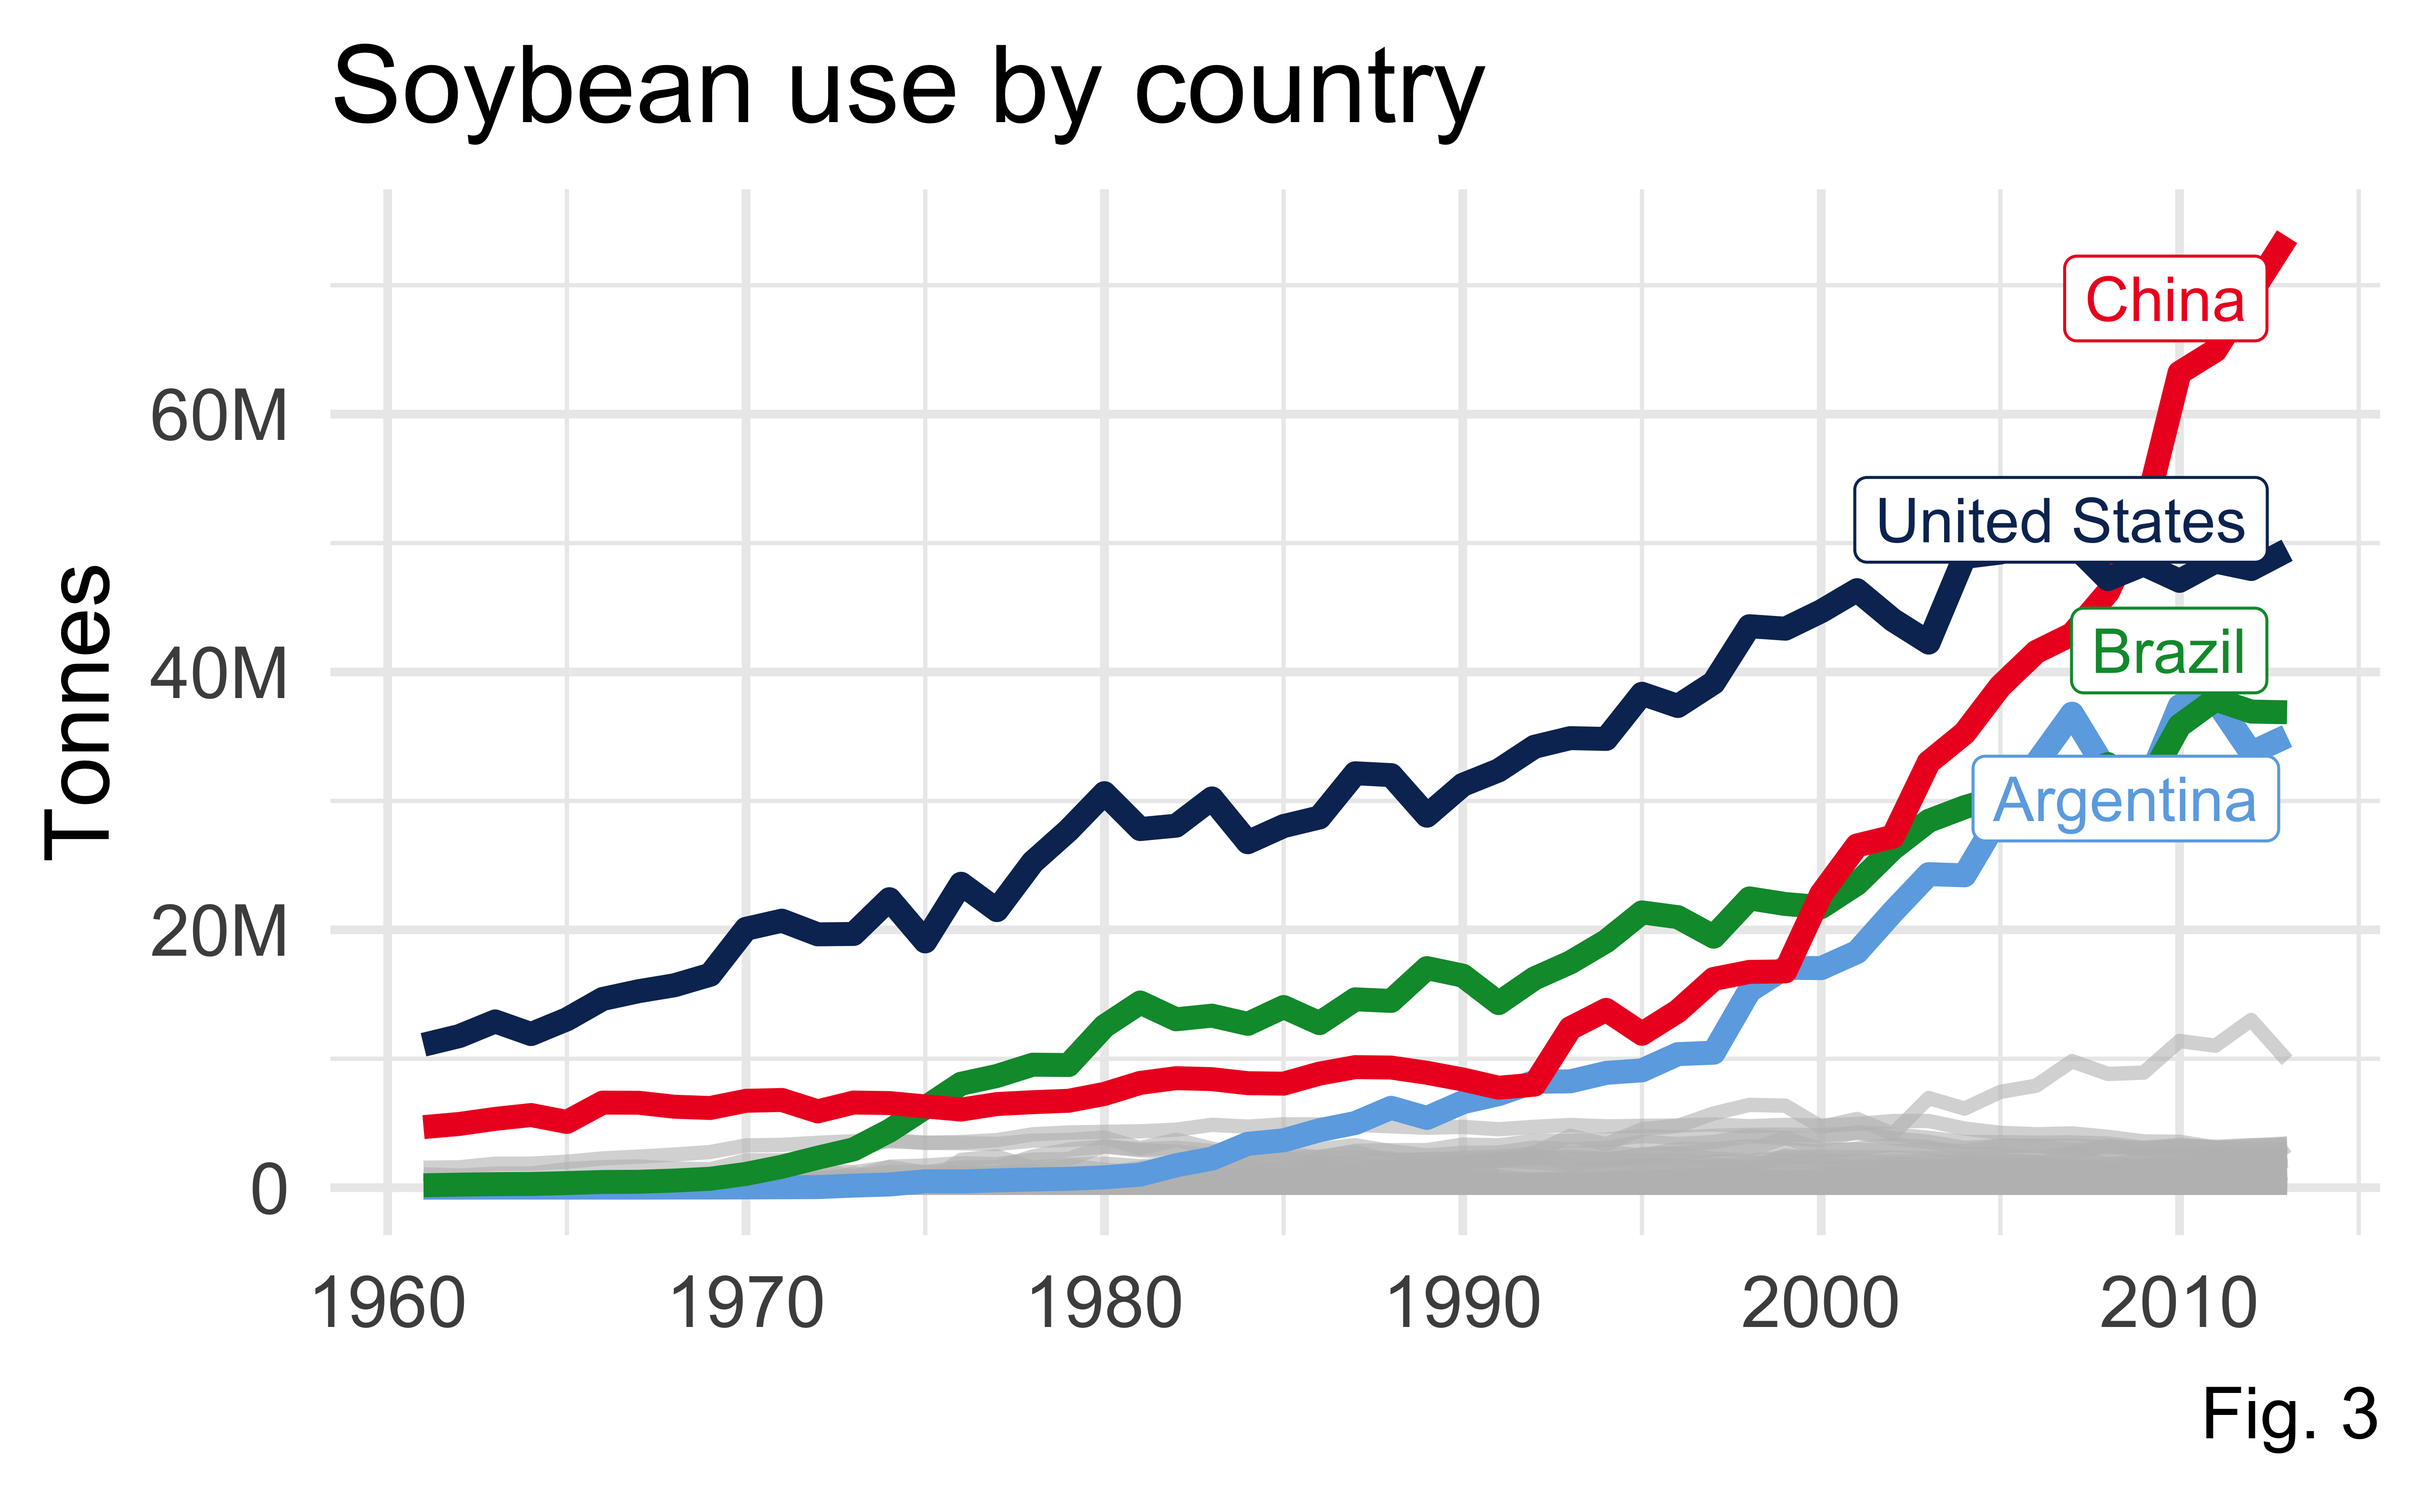
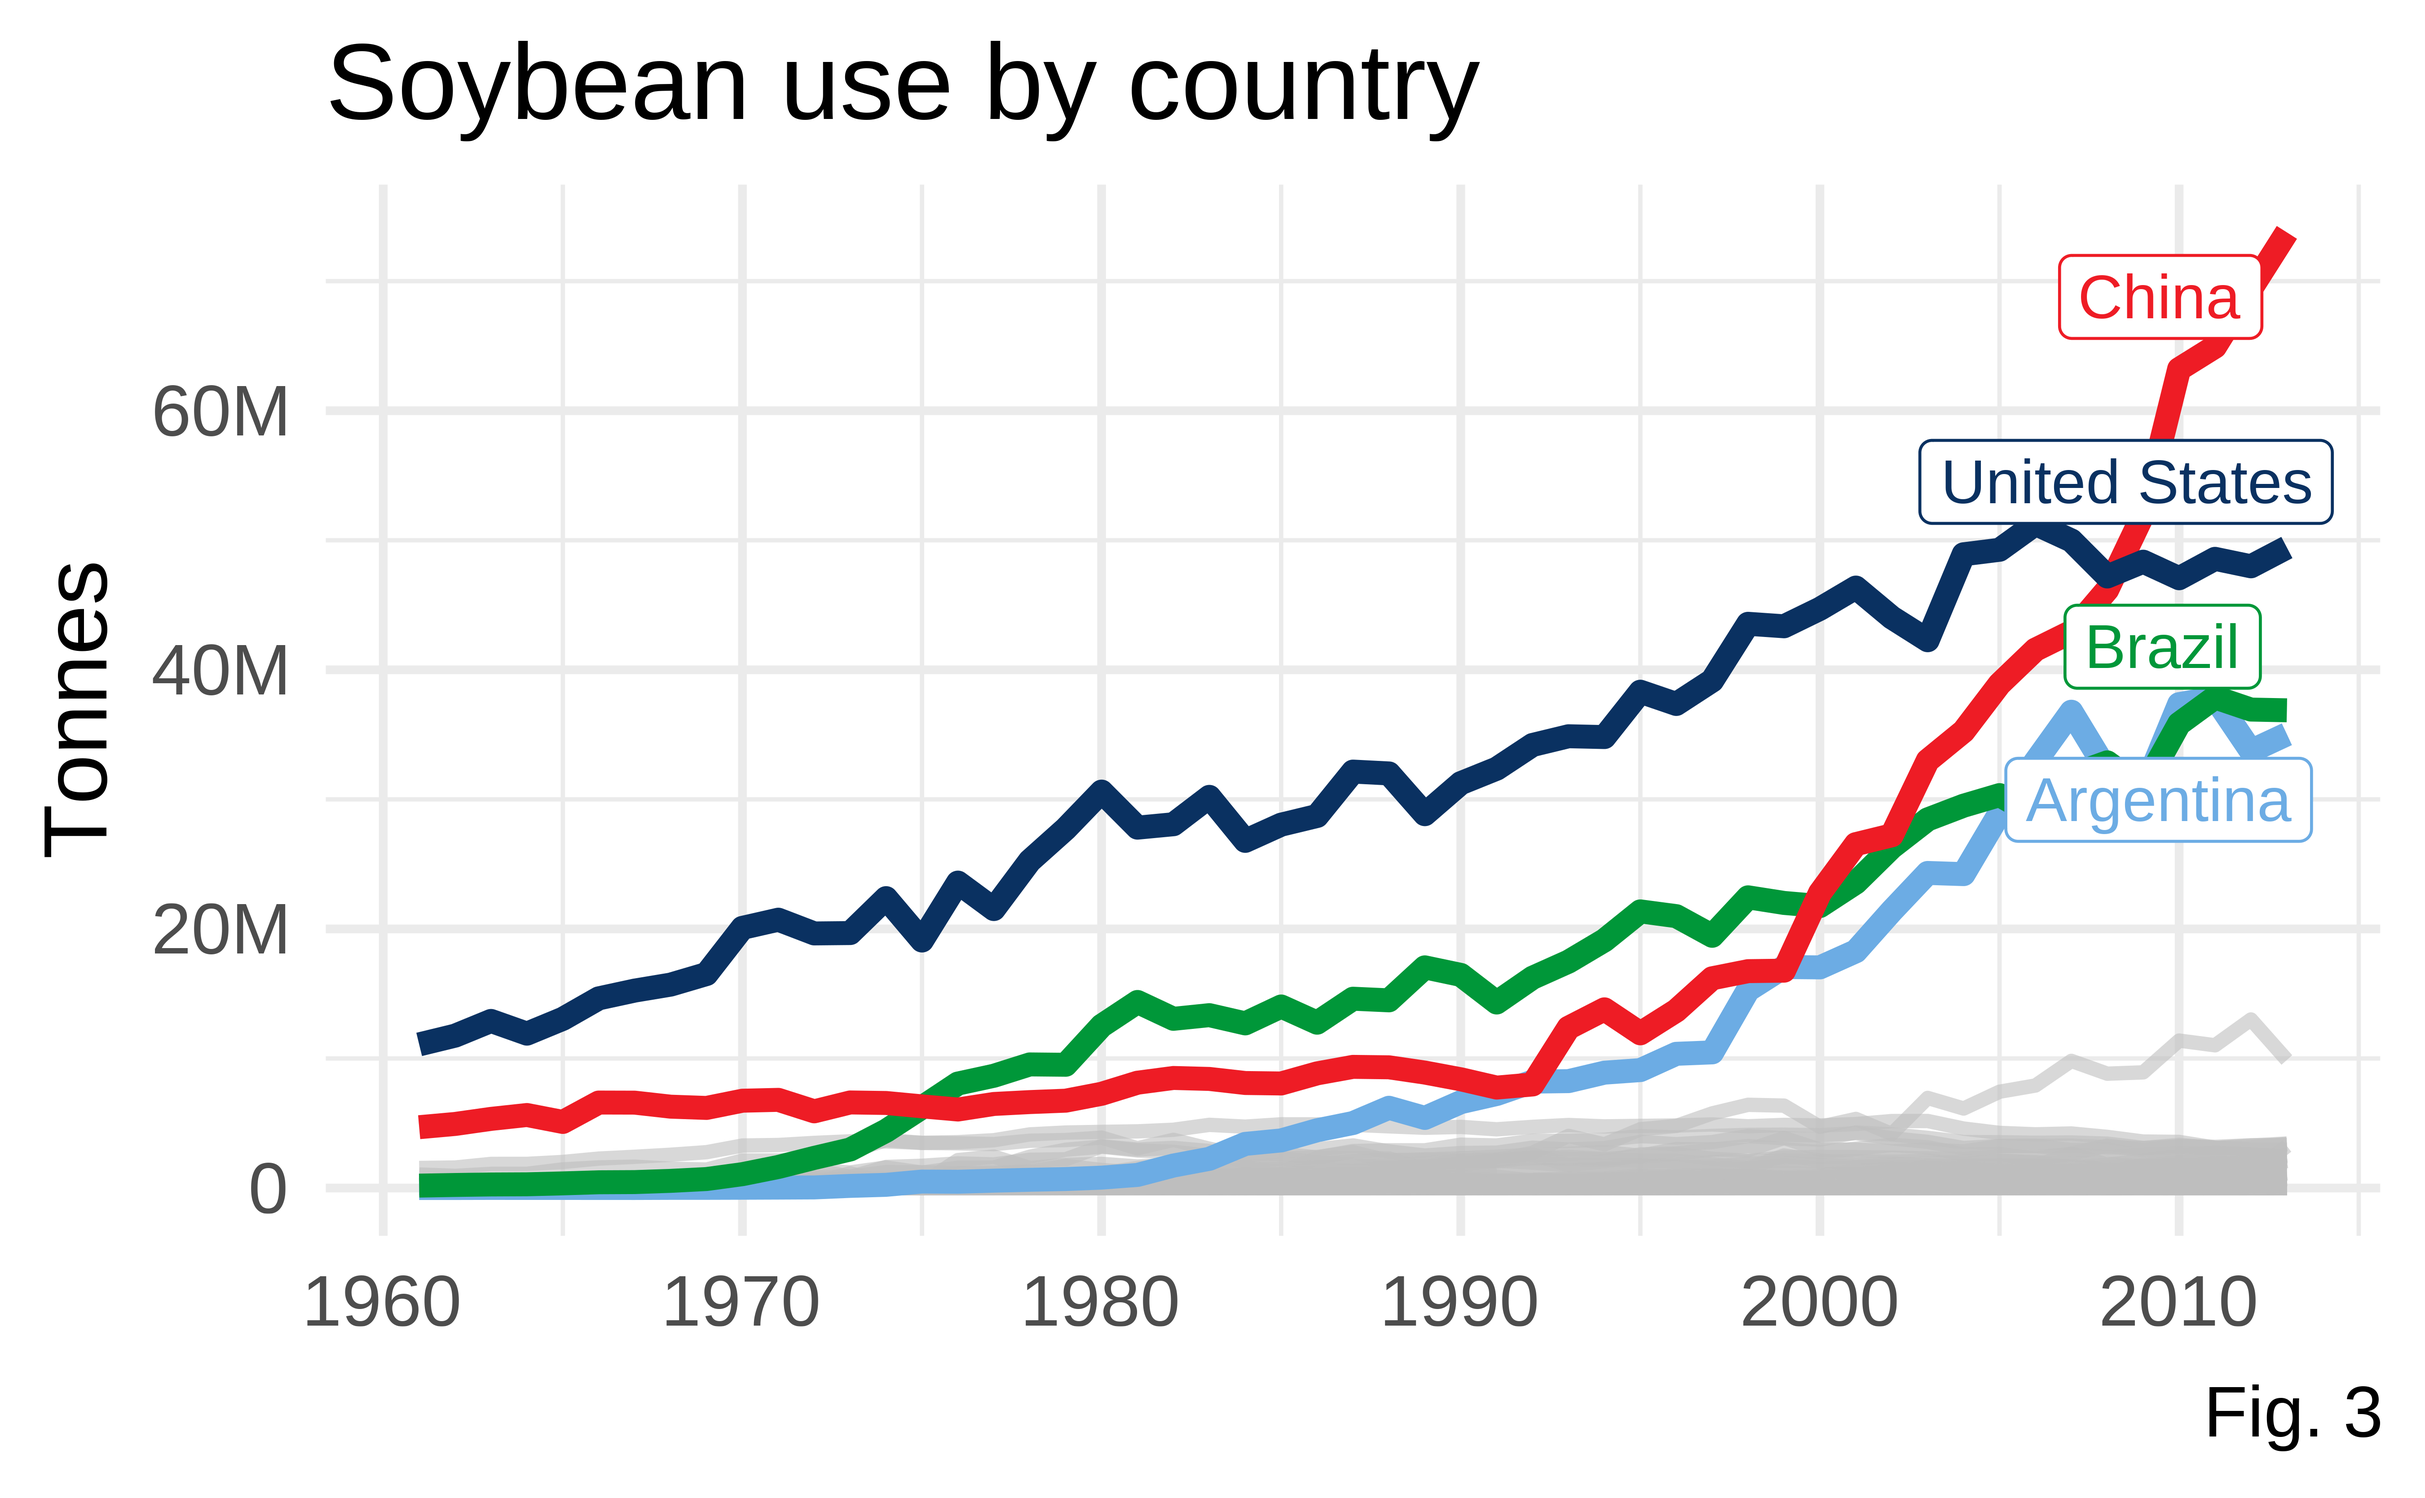
Q2.

diff --git a/README.md b/README.md
@@ -54,13 +54,138 @@ global deforestation.
 
 #### Figure 1
 
+``` r
+library(tidyverse)
+library(tidymodels)
+library(palmerpenguins)
+library(knitr)
+library(xaringanthemer)
+library(ggdark)
+library(scales)
+library(viridis)
+library(gghighlight)
+
+# set default theme for ggplot2
+ggplot2::theme_set(ggplot2::theme_minimal(base_size = 16))
+
+# For better figure resolution
+knitr::opts_chunk$set(
+  fig.retina = 3, 
+  dpi = 300, 
+  fig.width = 6, 
+  fig.asp = 0.618, 
+  out.width = "70%"
+  )
+
+forest <- read.csv("data/forest.csv")
+forest_area <- read.csv("data/forest_area.csv")
+brazil_loss <- read.csv("data/brazil_loss.csv")
+vegetable_oil <- read.csv("data/vegetable_oil.csv")
+soybean_use <- read.csv("data/soybean_use.csv")
+
+brazil_loss$total_brazil_forest_loss_hectares = rowSums(brazil_loss[,5:15])
+
+annotation <- data.frame(
+   x = c(2010),
+   y = c(-7300000),
+   label = c("Brazil has lost")
+)
+annotation2 <- data.frame(
+   x = c(2010),
+   y = c(-10500000),
+   label = c("over 30 million")
+)
+annotation3 <- data.frame(
+   x = c(2010),
+   y = c(-15700000),
+   label = c("hectares of forest\nsince 2000")
+)
+
+brazil_loss %>% select(year, total_brazil_forest_loss_hectares) %>%
+  add_row(year = 2000, total_brazil_forest_loss_hectares = 0, .before = 1) %>%
+  mutate(cum_sum = -(cumsum(total_brazil_forest_loss_hectares))) %>%
+  ggplot() +
+  geom_line(aes(year, cum_sum), size = 2, color = "#009739") +
+  geom_bar(aes(year, -total_brazil_forest_loss_hectares), stat="identity") +
+  geom_hline(aes(yintercept = 0), color = "red", size = 1.5) +
+  labs(title = "Cumulative Brazilian forest loss", subtitle = "2000 to 2013", x = NULL, y = "Hectares") +
+  scale_y_continuous(labels = label_number_si()) +
+  scale_x_continuous() +
+  geom_text(data=annotation, aes(x=x, y=y, label=label),
+           color="black", 
+           size=6, angle=0) +
+  geom_text(data=annotation2, aes(x=x, y=y, label=label),
+           color="red", 
+           size=7, angle=0, fontface="bold") +
+  geom_text(data=annotation3, aes(x=x, y=y, label=label),
+           color="black", 
+           size=6, angle=0) +
+  scale_x_continuous(breaks = seq(from = 2000, to = 2013, by = 4)) +
+  theme(panel.grid.minor.x = element_blank())
+```
+
 <img src="README_files/figure-gfm/cumulative_brazil_only-1.png" title="Brazil lost 30m hectares of forest from 2000 to 2013." alt="Brazil lost 30m hectares of forest from 2000 to 2013."  />
 
 #### Figure 2
 
+``` r
+brazil_loss_no_total <- read.csv("data/brazil_loss.csv") %>% select(-(1:3))
+brazil_loss_no_total <- brazil_loss_no_total %>%
+  pivot_longer(!year,
+               names_to = "cause",
+               values_to = "forest_lost") %>%
+  mutate(cause = case_when(
+    cause == "pasture" ~ "Pasture",
+    cause == "fire" ~ "Fire",
+    cause == "commercial_crops" ~ "Commercial Crops",
+    cause == "selective_logging" ~ "Logging",
+    cause == "small_scale_clearing" ~ "Small-Scale Farming",
+    T ~ "Other"
+  ) %>% 
+  factor(levels=c('Fire', "Logging", "Small-Scale Farming", "Commercial Crops", 'Pasture',"Other"))) %>%
+  group_by(cause, year) %>%
+  summarise(sum = sum(forest_lost), .groups = 'drop') %>%
+  group_by(year, cause) %>%
+  summarise(n = sum(sum)) %>%
+  mutate(percentage = n / sum(n))
+
+ggplot(brazil_loss_no_total, aes(year, percentage, fill=cause)) + 
+    geom_area(alpha = 0.9) +
+  scale_fill_manual(values = c("#E69F00", "#56B4E9", "#CC79A7", "red", "#0072B2", "#D55E00")) +
+  scale_y_continuous(labels = scales::percent) +
+  labs(x = NULL, y = NULL, title = "Causes of loss of forest in Brazil", fill = NULL,
+       caption = "Fig. 2") +
+  scale_x_continuous(breaks = seq(from = 2000, to = 2013, by = 4)) +
+  theme(legend.position = "bottom")
+```
+
 <img src="README_files/figure-gfm/drivers_of_brazil_deforstation-1.png" title="Pasture is the most common cause of deforestation in Brazil, " alt="Pasture is the most common cause of deforestation in Brazil, " width="70%" />
 
 #### Figure 3
+
+``` r
+soy_use_by_country <- soybean_use %>%
+  filter(!is.na(code),
+         entity != "World") %>%
+  rowwise() %>%
+  mutate(total = sum(human_food, animal_feed, processed, na.rm = T))
+
+# https://stackoverflow.com/questions/49438953/selective-labeling-for-ggplot-lines
+# https://cran.r-project.org/web/packages/gghighlight/vignettes/gghighlight.html
+
+soy_use_by_country %>%
+  ggplot(aes(x = year, y = total, color = entity)) +
+  geom_line(show.legend = F, size = 2) +
+  gghighlight(max(total), max_highlight = 4,
+              unhighlighted_params = list(size = 1.2, colour =
+                                            alpha("gray", 0.6))) +
+  scale_y_continuous(labels = label_number_si()) +
+  labs(y = "Tonnes", x = NULL, title = "Soybean use by country",
+       caption = "Fig. 3") +
+  # flagcolorcodes.com
+  scale_color_manual(values = c("#6CACE4", "#009739", "#EE1C25", "#0A3161")) +
+  scale_x_continuous(breaks = seq(from = 1960, to = 2013, by = 10))
+```
 
 <img src="README_files/figure-gfm/soybean_use_countries-1.png" title="China, US, Brazil, Argentina identified as countries that use the most soybean." alt="China, US, Brazil, Argentina identified as countries that use the most soybean." width="70%" />
 
@@ -107,25 +232,94 @@ We want to examine the proportions of soybean production used for human
 food versus for feeding animal change over time and whether this change
 in proportions is related to global deforestation development over time.
 The datasets we will use for this question are `soybean_use` and
-`forest_area`.
+`forest`.
 
 ### Approach
 
-(1-2 paragraphs) Describe what types of plots you are going to make to
-address your question. For each plot, provide a clear explanation as to
-why this plot (e.g. boxplot, barplot, histogram, etc.) is best for
-providing the information you are asking about. The two plots should be
-of different types, and at least one of the two plots needs to use
-either color mapping or facets.
+1.  Start by grouping all entries in `soybean_use.csv` by years. For
+    each year, add up the values for all entries under `human_food` and
+    `animal_feed`.
+
+2.  Create new variables `prop` that represents the proportions of
+    soybean production used for human food and for animal feed in each
+    year.
+
+3.  Use a stacked bar chart to plot the difference in proportions of
+    soybean use between human food and animal feed via different fill
+    colors. The x-axis represents `year` and the y-axis represents
+    ‘prop’.
+
+4.  Use a line graph to plot the negative net conversion of global
+    forest area in ‘forest.csv’, and an area graph to comparatively
+    represent the remaining forest area.
 
 ### Analysis
 
-(2-3 code blocks, 2 figures, text/code comments as needed) In this
-section, provide the code that generates your plots. Use scale functions
-to provide nice axis labels and guides. You are welcome to use theme
-functions to customize the appearance of your plot, but you are not
-required to do so. All plots must be made with ggplot2. Do not use base
-R or lattice plotting functions.
+#### Figure 1
+
+``` r
+data2 <-soybean_use %>%
+  group_by(year) %>%
+  summarise(total_human = sum(human_food, na.rm = T),
+            total_animal = sum(animal_feed, na.rm = T)) %>%
+  pivot_longer(!year, 
+              names_to = "use",
+              values_to = "amount") 
+
+data2 <- data2 %>%
+   group_by(year) %>%
+   mutate(prop = amount / sum(amount))
+ 
+ggplot(data2, aes(fill = use, y = prop, x = year)) + 
+  dark_theme_light() +  
+  geom_bar(position ="fill", stat ="identity") +
+  
+  scale_x_continuous (name = "Year",
+                     breaks = seq(from = 1961, to = 2013, by = 10)) +
+  scale_y_continuous(name = "Proportion",
+                     labels = c("0%", "25%", "50%","75%","100%")) +
+  scale_fill_manual(values = c("orangered4", "goldenrod1"), 
+                    name = NULL, labels = c("Animal food", "Human food")) +
+  
+  labs(title = "Global soybean production and use share between 1961-2013",
+       subtitle = "By types of usage") +
+  
+  theme(plot.title = element_text(face = 'bold',size = 13),
+        plot.subtitle = element_text( size = 12),
+        legend.position = "bottom",
+        legend.key.size = unit(.5, "cm"),
+        legend.text = element_text(size = 10),
+        legend.box.spacing = unit(0.2, "cm"),
+        axis.title.x = element_text(size = 10),
+        axis.title.y = element_text(size = 10),
+        axis.text.x = element_text( size = 7,face = "bold"),
+        axis.text.y = element_text(margin = margin(t = .3, unit = "cm"), size = 7, face = "bold"))
+```
+
+<img src="README_files/figure-gfm/soybean_use_share-1.png" title="global soybean production share by animal feed is catching up to, if not exceeding, the share by human food between 1961 and 2013" alt="global soybean production share by animal feed is catching up to, if not exceeding, the share by human food between 1961 and 2013" width="70%" />
+
+#### Figure 2
+
+``` r
+forest2 <- forest %>%
+  filter(entity == "World")
+
+ggplot(forest2,aes(x=year, y = net_forest_conversion, fill=year)) + 
+  geom_area(aes(color = entity), size = 2.5, fill= "lightgray", alpha = 0.5) +
+  scale_color_manual(values = c("burlywood4")) +
+  scale_y_reverse() +
+
+  
+  labs(title = "Global Net Forest Conversion (hectares)", x = "Year", y = NULL) +
+  
+  theme(legend.position = "none",
+        plot.title = element_text(face = 'bold',size = 17),
+        axis.title.x = element_text(size = 16),
+        axis.text.x = element_text( size = 13,face = "bold"),
+        axis.text.y = element_text(margin = margin(t = .3, unit = "cm"), size = 13, face = "bold"))
+```
+
+<img src="README_files/figure-gfm/forest_net_converstion-1.png" title="The net loss in global forest area to use land for another purpose between 1990 and 2015" alt="The net loss in global forest area to use land for another purpose between 1990 and 2015" width="70%" />
 
 ### Discussion
 
@@ -164,4 +358,6 @@ online at OurWorldInData.org. Retrieved from:
 8.  [Deforestation by
     commodity](https://ourworldindata.org/grapher/deforestation-by-commodity)  
 9.  [Soybean production and use](https://ourworldindata.org/soy)  
-10. [Palm oil production](https://ourworldindata.org/palm-oil)
+10. [Palm oil production](https://ourworldindata.org/palm-oil) 10.[Net
+    Forest
+    Conversion](https://www.clientearth.org/latest/latest-updates/stories/what-is-forest-conversion/)
